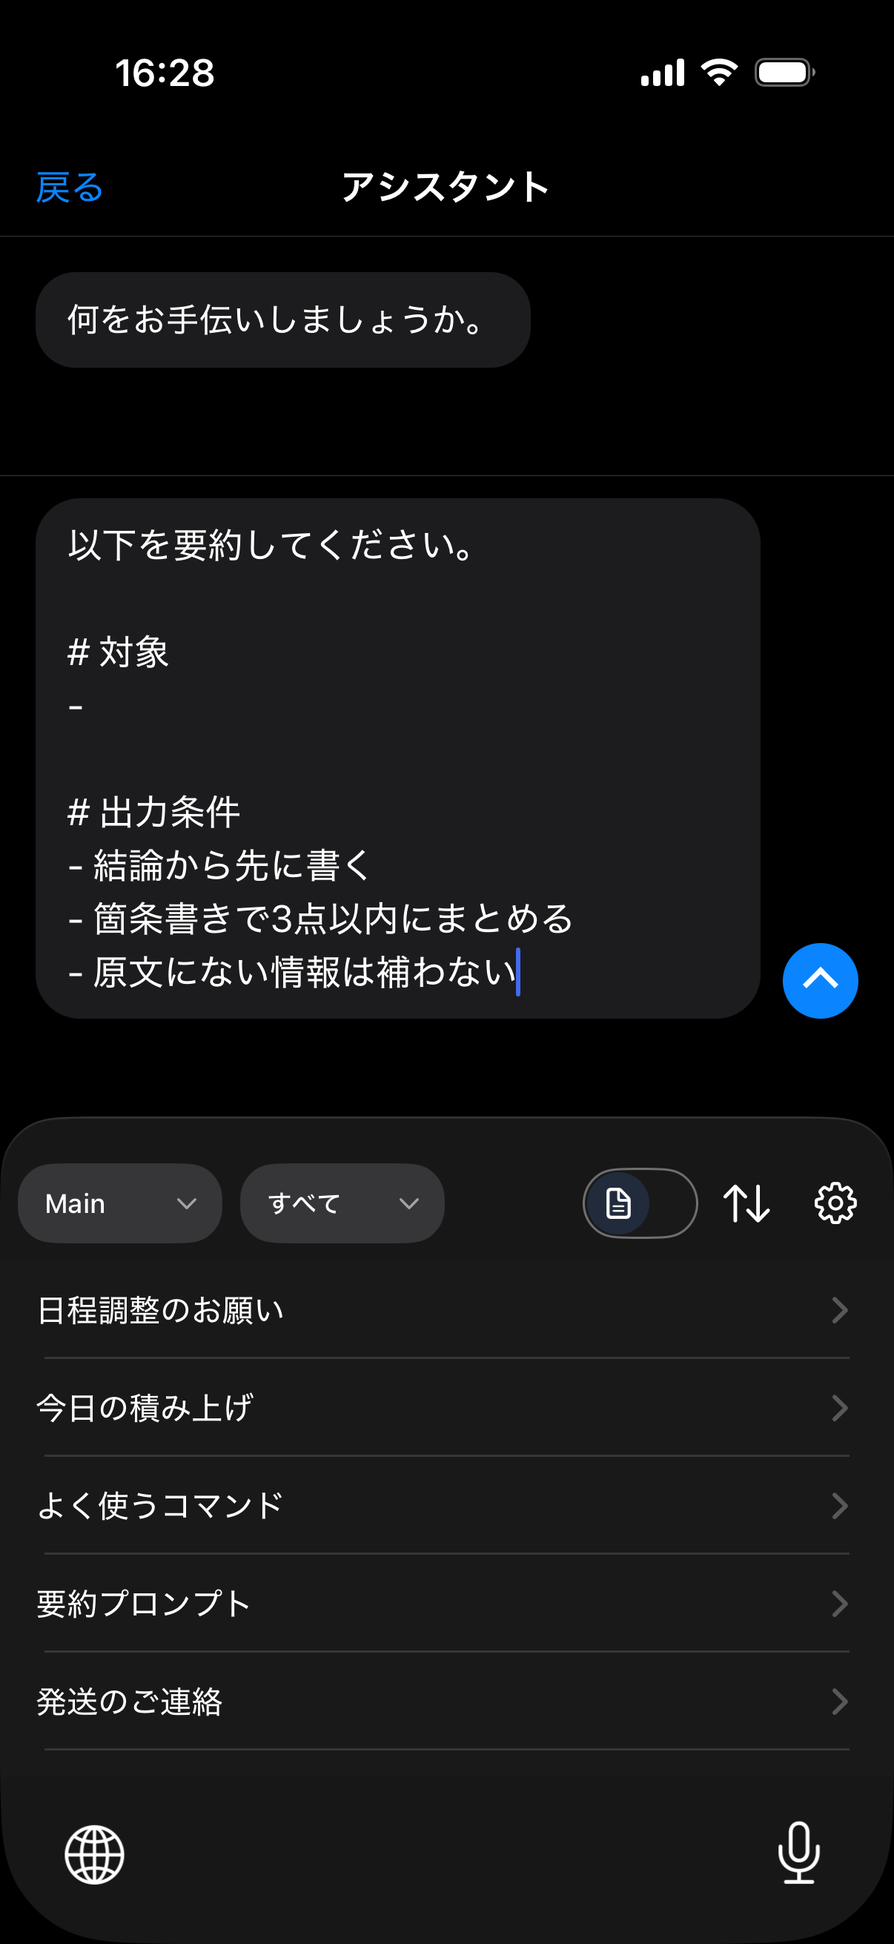
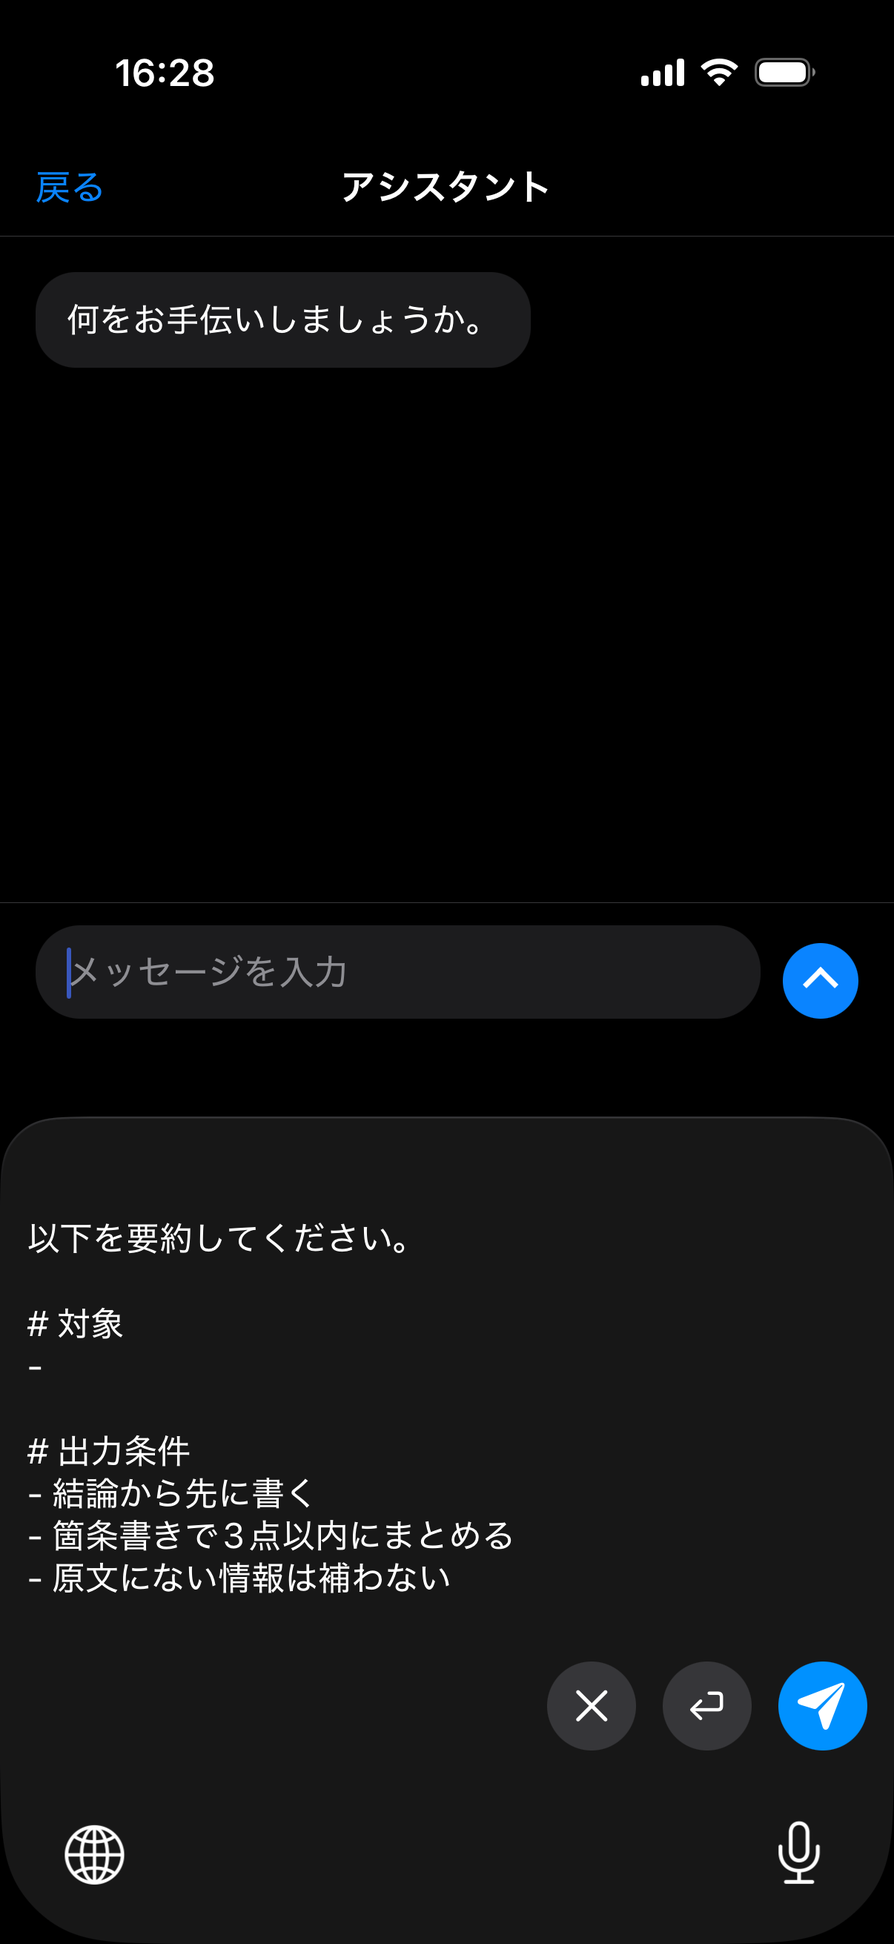
端末キャプチャを完全内製にし、他アプリへの挿入面を挿入する直前で揃える
他社アプリ由来だったメッセージAppの2枚をやめ、全キャプチャが ClipTap本体か
撮影用ホストのどちらかになった。挿入面はすべて「キーボードのプレビューに
これから入る文字と挿入ボタンが出ている」状態で統一した。

ホストに2レイアウトを追加
- compose-message.html — 人とのやりとり。01-hero-right-insert 用。
  compose-chat.html（アシスタント）と見分けがつくよう、タイトルを人名にし往復の吹き出しを置いた
- compose-form.html — 氏名・電話番号・住所の入力フォーム。05-shortcuts-right-keyboard 用。
  ショートカットの使いどころ（毎回同じ値を打ち直す欄）をそのまま写す

dummy.json
- 「氏名」／「Full name」のショートカットを追加した。フォームの氏名欄に対応する値が無かったため
- 一覧の上位5件が 携帯番号／請求先／氏名／自宅の住所 になるよう並べ替えた。
  キーボードの一覧は自動操作でスクロールできず、撮影に使えるのが上位5件だけのため。
  これに伴い 05-shortcuts-left-list も撮り直した

撮り直したキャプチャ（各 ja / en）
- 01-hero-right-insert — メッセージ面。日付を含まない定型文を選んでいる。
  {{today}} は撮影当日へ展開され、別の日に撮った他の面と食い違うため
- 02-scene-1-ai / 02-scene-2-sns — 挿入済みだったものを挿入直前へ
- 05-shortcuts-left-list / 05-shortcuts-right-keyboard

host.js
- タップされた入力欄へ明示的にフォーカスを移すようにした。ただしWebView内では
  contenteditable どうしのフォーカス移動が起こらず、複数欄への連続挿入はできない。
  この制約と、キーボードの一覧がスクロールできないことは host/README.md に残した

文言
- LPの alt を「挿入した」から「挿入しようとしている」へ（ja/en 各4箇所）。
  02-scene-3-mail は前回の変更時から画像と食い違ったままだったので合わせて直した
- 各スライドの冒頭コメントと MARKETING_STRATEGY.md §4-5 を実態に合わせた

diff --git a/store/screen/host/compose-form.html b/store/screen/host/compose-form.html
@@ -1,0 +1,60 @@
+<!doctype html>
+<!--
+  撮影用ホスト — お届け先の入力フォーム。05-shortcuts-right-keyboard-<lang>.png 用。
+  氏名・電話番号・住所という、申し込みや配送先の入力に共通する最小の構成だけを置く。
+  特定のサービスの配色・ロゴ・固有の文言は入れない（README参照）。
+
+  3欄とも contenteditable にしてある。<input> だとタップしてもキーボードが上がらず
+  （WebView内で実測）、撮影そのものが始められないため。
+
+  ショートカットの使いどころ（毎回同じ値を打ち直す欄）をそのまま写すための面。
+  3つの欄はいずれも空で置き、撮影時に ClipTap キーボードのショートカットから入れる。
+  ホスト側に値を書いてしまうと、キーボードで入れたことが何も伝わらない。
+-->
+<html lang="ja">
+<head>
+<meta charset="utf-8" />
+<meta name="viewport" content="width=device-width, initial-scale=1, viewport-fit=cover, user-scalable=no" />
+<meta name="apple-mobile-web-app-capable" content="yes" />
+<meta name="mobile-web-app-capable" content="yes" />
+<meta name="apple-mobile-web-app-status-bar-style" content="black-translucent" />
+<meta name="apple-mobile-web-app-title" content="Composer" />
+<meta name="color-scheme" content="dark" />
+<title>Composer</title>
+<link rel="apple-touch-icon" href="icon.png" />
+<link rel="stylesheet" href="host.css" />
+</head>
+<body>
+
+<div class="nav">
+  <button class="nav-action leading" type="button" data-back>
+    <span class="ja">キャンセル</span><span class="en">Cancel</span>
+  </button>
+  <span class="nav-title">
+    <span class="ja">お届け先の入力</span><span class="en">Delivery details</span>
+  </span>
+  <button class="nav-action trailing filled" type="button">
+    <span class="ja">保存</span><span class="en">Save</span>
+  </button>
+</div>
+
+<div class="body body--form">
+  <!-- 3欄ともラベルを上に置く積み重ね型。1行の flex 行に置いた contenteditable は
+       タップしてもフォーカスが入らずキーボードが出なかったため（WebView内で実測）。 -->
+  <div class="field field--stacked">
+    <span class="field-label"><span class="ja">氏名</span><span class="en">Name</span></span>
+    <div class="textarea editable" contenteditable="true" role="textbox" data-ja="氏名を入力" data-en="Full name"></div>
+  </div>
+  <div class="field field--stacked">
+    <span class="field-label"><span class="ja">電話番号</span><span class="en">Phone</span></span>
+    <div class="textarea editable" contenteditable="true" role="textbox" data-ja="電話番号を入力" data-en="Phone number"></div>
+  </div>
+  <div class="field field--stacked">
+    <span class="field-label"><span class="ja">住所</span><span class="en">Address</span></span>
+    <div class="textarea editable" contenteditable="true" role="textbox" aria-multiline="true" data-ja="住所を入力" data-en="Street address"></div>
+  </div>
+</div>
+
+<script src="host.js"></script>
+</body>
+</html>

diff --git a/store/screen/host/compose-message.html b/store/screen/host/compose-message.html
@@ -1,0 +1,60 @@
+<!doctype html>
+<!--
+  撮影用ホスト — 人とのメッセージのやりとり。01-hero-right-insert-<lang>.png 用。
+  往復の吹き出しと1行の入力欄という、チャットに共通する最小の構成だけを置く。
+  特定のメッセージサービスの配色・ロゴ・固有の文言は入れない（README参照）。
+
+  compose-chat.html（アシスタント）と骨格は同じなので、見分けがつくよう
+  タイトルを人名にし、相手と自分の吹き出しを往復で置いている。
+  アシスタント面は吹き出し1つ＋長いプロンプト、こちらは往復＋短い返信で差がつく。
+-->
+<html lang="ja">
+<head>
+<meta charset="utf-8" />
+<meta name="viewport" content="width=device-width, initial-scale=1, viewport-fit=cover, user-scalable=no" />
+<meta name="apple-mobile-web-app-capable" content="yes" />
+<meta name="mobile-web-app-capable" content="yes" />
+<meta name="apple-mobile-web-app-status-bar-style" content="black-translucent" />
+<meta name="apple-mobile-web-app-title" content="Composer" />
+<meta name="color-scheme" content="dark" />
+<title>Composer</title>
+<link rel="apple-touch-icon" href="icon.png" />
+<link rel="stylesheet" href="host.css" />
+</head>
+<body>
+
+<div class="nav">
+  <button class="nav-action leading" type="button" data-back>
+    <span class="ja">戻る</span><span class="en">Back</span>
+  </button>
+  <span class="nav-title">
+    <span class="ja">田村さん</span><span class="en">Riley</span>
+  </span>
+  <span></span>
+</div>
+
+<div class="body">
+  <!-- 挿入する定型文「日程調整のお願い」への受け答えになるやりとり。
+       日付を含まない定型文を選んでいるのは、{{today}} が撮影当日へ展開され、
+       別の日に撮った他のキャプチャと日付が食い違うため。 -->
+  <div class="thread">
+    <div class="bubble them">
+      <span class="ja">来週、お打ち合わせのお時間をいただけますか。</span>
+      <span class="en">Could we find time for a call next week?</span>
+    </div>
+    <div class="bubble me">
+      <span class="ja">ありがとうございます。候補をお送りします。</span>
+      <span class="en">Of course — sending over some times.</span>
+    </div>
+  </div>
+
+  <div class="chat-bar">
+    <!-- ここへ ClipTap キーボードから定型文を挿入して撮る -->
+    <div class="textarea editable" contenteditable="true" role="textbox" aria-multiline="true" data-autofocus data-ja="メッセージを入力" data-en="Message"></div>
+    <button class="send" type="button" aria-label="Send"></button>
+  </div>
+</div>
+
+<script src="host.js"></script>
+</body>
+</html>

diff --git a/apps/web/index.html b/apps/web/index.html
@@ -194,7 +194,7 @@
           </div>
             <div class="phone">
             <div class="phone-inner">
-              <img src="/image/01-hero-right-insert-ja.png" width="1206" height="2622" alt="チャットの入力欄に定型文がそのまま入力された画面" />
+              <img src="/image/01-hero-right-insert-ja.png" width="1206" height="2622" alt="メッセージの入力欄へ、ClipTapのキーボードから定型文を挿入しようとしている画面" />
             </div>
           </div>
           </div>
@@ -221,7 +221,7 @@
             </div>
             <div class="phone phone--sm">
             <div class="phone-inner">
-              <img src="/image/02-scene-1-ai-ja.png" width="1206" height="2622" loading="lazy" decoding="async" alt="AIチャットの入力欄に、ClipTapの定型文プロンプトを入力した画面" />
+              <img src="/image/02-scene-1-ai-ja.png" width="1206" height="2622" loading="lazy" decoding="async" alt="AIとの対話の入力欄へ、ClipTapのプロンプトを挿入しようとしている画面" />
             </div>
           </div>
           </div>
@@ -232,7 +232,7 @@
             </div>
             <div class="phone phone--sm">
             <div class="phone-inner">
-              <img src="/image/02-scene-2-sns-ja.png" width="1206" height="2622" loading="lazy" decoding="async" alt="SNSの投稿欄に「今日の積み上げ」の定型文を入力した画面" />
+              <img src="/image/02-scene-2-sns-ja.png" width="1206" height="2622" loading="lazy" decoding="async" alt="SNSの投稿欄へ「今日の積み上げ」の定型文を挿入しようとしている画面" />
             </div>
           </div>
           </div>
@@ -243,7 +243,7 @@
             </div>
             <div class="phone phone--sm">
             <div class="phone-inner">
-              <img src="/image/02-scene-3-mail-ja.png" width="1206" height="2622" loading="lazy" decoding="async" alt="メールの本文に、ClipTapの定型文を挿入した画面" />
+              <img src="/image/02-scene-3-mail-ja.png" width="1206" height="2622" loading="lazy" decoding="async" alt="メールの本文へ、ClipTapの定型文を挿入しようとしている画面" />
             </div>
           </div>
           </div>

diff --git a/apps/web/en/index.html b/apps/web/en/index.html
@@ -194,7 +194,7 @@
           </div>
             <div class="phone">
             <div class="phone-inner">
-              <img src="/image/01-hero-right-insert-en.png" width="1206" height="2622" alt="A saved ClipTap prompt inserted straight into a chat input field" />
+              <img src="/image/01-hero-right-insert-en.png" width="1206" height="2622" alt="A saved ClipTap template about to be inserted into a message input field" />
             </div>
           </div>
           </div>
@@ -221,7 +221,7 @@
             </div>
             <div class="phone phone--sm">
             <div class="phone-inner">
-              <img src="/image/02-scene-1-ai-en.png" width="1206" height="2622" loading="lazy" decoding="async" alt="A ClipTap prompt template typed into an AI chat input field" />
+              <img src="/image/02-scene-1-ai-en.png" width="1206" height="2622" loading="lazy" decoding="async" alt="A ClipTap prompt about to be inserted into an AI chat input field" />
             </div>
           </div>
           </div>
@@ -232,7 +232,7 @@
             </div>
             <div class="phone phone--sm">
             <div class="phone-inner">
-              <img src="/image/02-scene-2-sns-en.png" width="1206" height="2622" loading="lazy" decoding="async" alt="A daily update template typed into a social media post box" />
+              <img src="/image/02-scene-2-sns-en.png" width="1206" height="2622" loading="lazy" decoding="async" alt="A daily update template about to be inserted into a social media post box" />
             </div>
           </div>
           </div>
@@ -243,7 +243,7 @@
             </div>
             <div class="phone phone--sm">
             <div class="phone-inner">
-              <img src="/image/02-scene-3-mail-en.png" width="1206" height="2622" loading="lazy" decoding="async" alt="A ClipTap template inserted into an email body" />
+              <img src="/image/02-scene-3-mail-en.png" width="1206" height="2622" loading="lazy" decoding="async" alt="A ClipTap template about to be inserted into an email body" />
             </div>
           </div>
           </div>

diff --git a/store/screen/05-shortcuts.html b/store/screen/05-shortcuts.html
@@ -2,11 +2,15 @@
 <!--
   スライド 05 — ショートカット。
   仕様書 §8.24（拡張キーボードから呼び出す値を、ショートカットとその値として管理する機能）を訴求する。
-  左はアプリのショートカット一覧、右はメッセージAppで ClipTap キーボードからショートカットの値を
-  挿入したところ。どちらもシミュレータで撮影し、開発用シード（apps/mobile/dummy.json）の架空データを
+  左はアプリのショートカット一覧、右は撮影用ホストのお届け先フォーム
+  （store/screen/host/compose-form.html）へ、住所のショートカットを挿入する直前。
+  どちらもシミュレータで撮影し、開発用シード（apps/mobile/dummy.json）の架空データを
   プロファイル「A社用」（en は Client A）で表示している。
-  一覧の先頭が「携帯番号」「請求先」になるのは dummy.json の並びによる（配列の末尾ほど一覧の上に出る）。
-  見出しの「電話番号や請求先」と写っているものを合わせるための並びなので、入れ替えると崩れる。
+  一覧の先頭が「携帯番号」「請求先」「氏名」「自宅の住所」になるのは dummy.json の並びによる
+  （配列の末尾ほど一覧の上に出る）。見出しの「電話番号や請求先」と、右のフォームが持つ
+  氏名・電話番号・住所の欄の両方に写っているものを合わせるための並びなので、入れ替えると崩れる。
+  キーボードの一覧は自動操作でスクロールできないため、撮影に使うショートカットは
+  必ずこの上位5件へ入れておくこと。
 -->
 <meta charset="utf-8" />
 <template id="slide">

diff --git a/apps/mobile/src/database/seed.ts b/apps/mobile/src/database/seed.ts
@@ -18,7 +18,7 @@
  * - スニペット: 24種類（仕事7、SNS4、プロンプト4、コード4、日常3、連絡先2）
  * - プロファイル: 2種類（取引先別。デフォルトの「Main」と合わせて無料プラン上限の3件）
  * - カスタム変数: 5種類（取引先担当者名、自社名、送信者名、案件名、メール署名）
- * - ショートカット: 18種類（全プロファイル向け 7件、Main 4件、A社用 3件、B社用 2件、A社用とB社用の両方 2件）
+ * - ショートカット: 19種類（全プロファイル向け 8件、Main 4件、A社用 3件、B社用 2件、A社用とB社用の両方 2件）
  *
  * dummy.jsonは ja / en の2組を持ち、端末の言語に合う組だけを投入する。
  * 日本語UIに英語データ（またはその逆）が混ざったキャプチャはストアに出せないため、
@@ -534,7 +534,7 @@ async function seedShortcuts(
  * 2. プロファイル 2種類（デフォルトの「Main」と合わせて計3件）
  * 3. スニペット 24種類（うち2件はプロファイルを限定。残りは全プロファイル向け）
  * 4. カスタム変数 5種類 + 各プロファイル別の値
- * 5. ショートカット 18種類（現在のdummy.jsonは全件カテゴリ付き。未分類も登録できる）
+ * 5. ショートカット 19種類（現在のdummy.jsonは全件カテゴリ付き。未分類も登録できる）
  *
  * デフォルトプロファイル「Main」の作成はこの関数の責務ではなく、
  * src/database/database.ts の setupDatabase / reset が担う。

diff --git a/store/screen/01-keyboard.html b/store/screen/01-keyboard.html
@@ -2,8 +2,10 @@
 <!--
   スライド 01 — 拡張キーボード。
   docs/MARKETING_STRATEGY.md §4-5 の指示により、アイキャッチの次（実質1枚目の機能訴求）に置く。
-  キャプチャはメッセージAppの入力欄へ ClipTap のキーボードから定型文を挿入した直後で、
-  入力済みの本文と、挿入元の定型文が並ぶキーボードが1枚に収まっている（00-hero の右と同じ画像）。
+  キャプチャは撮影用ホストのメッセージ面（store/screen/host/compose-message.html）で、
+  相手とのやりとりの下に、これから入る定型文がキーボードのプレビューに出ている挿入の直前
+  （00-hero の右と同じ画像）。挿入する定型文は日付を含まないものを選んでいる。
+  {{today}} は撮影当日へ展開されるため、別の日に撮った他の面と日付が食い違うのを避けている。
   リードは LP の HOW IT WORKS ステップ2（apps/web/index.html:299-）から逐語。
   ヒーローのリードは 00-hero が使うため、ここでは重複させない。
 -->

diff --git a/store/screen/02-scenes.html b/store/screen/02-scenes.html
@@ -3,9 +3,9 @@
   スライド 02 — 使う場面。
   見出しとリードは LP の scenes セクション（apps/web/index.html:215-）から逐語流用。
 
-  左は投稿コンポーザで、定型文を挿入し終えたところ。
-  右はメールの作成欄で、件名だけを挿入し、本文はこれから挿入する直前。
-  キーボードのプレビューに入る予定の本文と挿入ボタンが出ており、2枚で挿入の前後になる。
+  左は投稿コンポーザ、右はメールの作成欄。どちらも挿入する直前で、
+  キーボードのプレビューにこれから入る本文と挿入ボタンが出ている。
+  右は件名だけ先にタイトル挿入ボタンで入れてある。
   どちらも撮影用ホスト（store/screen/host/）を、アプリの
   設定 > Developer Menu > Capture Host（WebView）で開いて撮っている。
   ホストは実在するサービスに似せない無印のUIで、リードが言う「SNS」「メール」という

diff --git a/store/screen/host/host.css b/store/screen/host/host.css
@@ -183,6 +183,26 @@ body {
   overflow-y: auto;
 }
 
+/* ラベルを上に置き、値を全幅で受ける欄。入力フォームの各欄で使う。
+   中の入力欄は自然高にする（.textarea の flex: 1 のままだと残りの高さを全部取る）。
+   1行ぶんの高さを確保しているのは当たり判定のため。空の contenteditable を
+   .field の flex 行へ置くとタップが通らず、キーボードが出なかった（実測）。 */
+.field--stacked {
+  display: block;
+}
+
+.field--stacked .field-label {
+  display: block;
+  width: auto;
+  margin-bottom: 6px;
+}
+
+.field--stacked .textarea {
+  flex: none;
+  padding: 0;
+  min-height: 25px;
+}
+
 /* 本文の入力欄は contenteditable にしてある。textarea や input だと iOS が
    フォーム移動用のアクセサリバー（∧ ∨ 完了）をキーボードの上へ足し、
    撮影した画像にブラウザの部品が写り込むため。contenteditable にはそれが出ない。

diff --git a/store/screen/host/index.html b/store/screen/host/index.html
@@ -54,11 +54,27 @@
       </a>
     </li>
     <li>
+      <a href="compose-message.html">
+        <span class="ja">メッセージ</span>
+        <span class="en">Message</span>
+        <span class="sub ja">やりとりの入力欄</span>
+        <span class="sub en">Chat with a person</span>
+      </a>
+    </li>
+    <li>
       <a href="compose-chat.html">
         <span class="ja">アシスタント</span>
         <span class="en">Assistant</span>
         <span class="sub ja">対話の入力欄</span>
         <span class="sub en">Chat input</span>
+      </a>
+    </li>
+    <li>
+      <a href="compose-form.html">
+        <span class="ja">お届け先の入力</span>
+        <span class="en">Delivery details</span>
+        <span class="sub ja">氏名・電話番号・住所</span>
+        <span class="sub en">Name, phone, address</span>
       </a>
     </li>
   </ul>

diff --git a/store/screen/00-hero.html b/store/screen/00-hero.html
@@ -3,7 +3,8 @@
   スライド 00 — アイキャッチ。
   LP のヒーロー（apps/web/index.html:180-187 / en:180-187）をそのまま持ち込む。
   見出し・リード・注記はいずれも逐語。端末も LP のヒーローと同じ2台組
-  （左=ホーム一覧、右=キーボード挿入）で、重なり方も lp.css の .hero-shots に従う。
+  （左=ホーム一覧、右=キーボードから挿入する直前）で、重なり方も lp.css の .hero-shots に従う。
+  左が「登録してある文章」、右が「そこから選んだ1件がこれから入るところ」という対になる。
   デッキの先頭に置くアイキャッチなので、見出しだけ他の面より大きく組む
   （lp.css の .hero h1 が .section-title より大きいのと同じ）。
 

diff --git a/store/screen/host/host.js b/store/screen/host/host.js
@@ -142,6 +142,12 @@ function scrollToStart(el) {
 
 for (const el of document.querySelectorAll('.editable')) {
   el.addEventListener('input', () => scrollToStart(el));
+
+  /* タップされた欄へ明示的にフォーカスを移す。
+     WebView内では contenteditable どうしのフォーカス移動がタップだけでは起こらず、
+     最初に触れた欄へ入り続ける。入力フォームのように欄が複数ある面で、
+     2つ目以降の欄へショートカットを入れられなくなる（実測）。 */
+  el.addEventListener('click', () => el.focus());
 }
 
 /* 文字数の表示を本文に連動させる。
